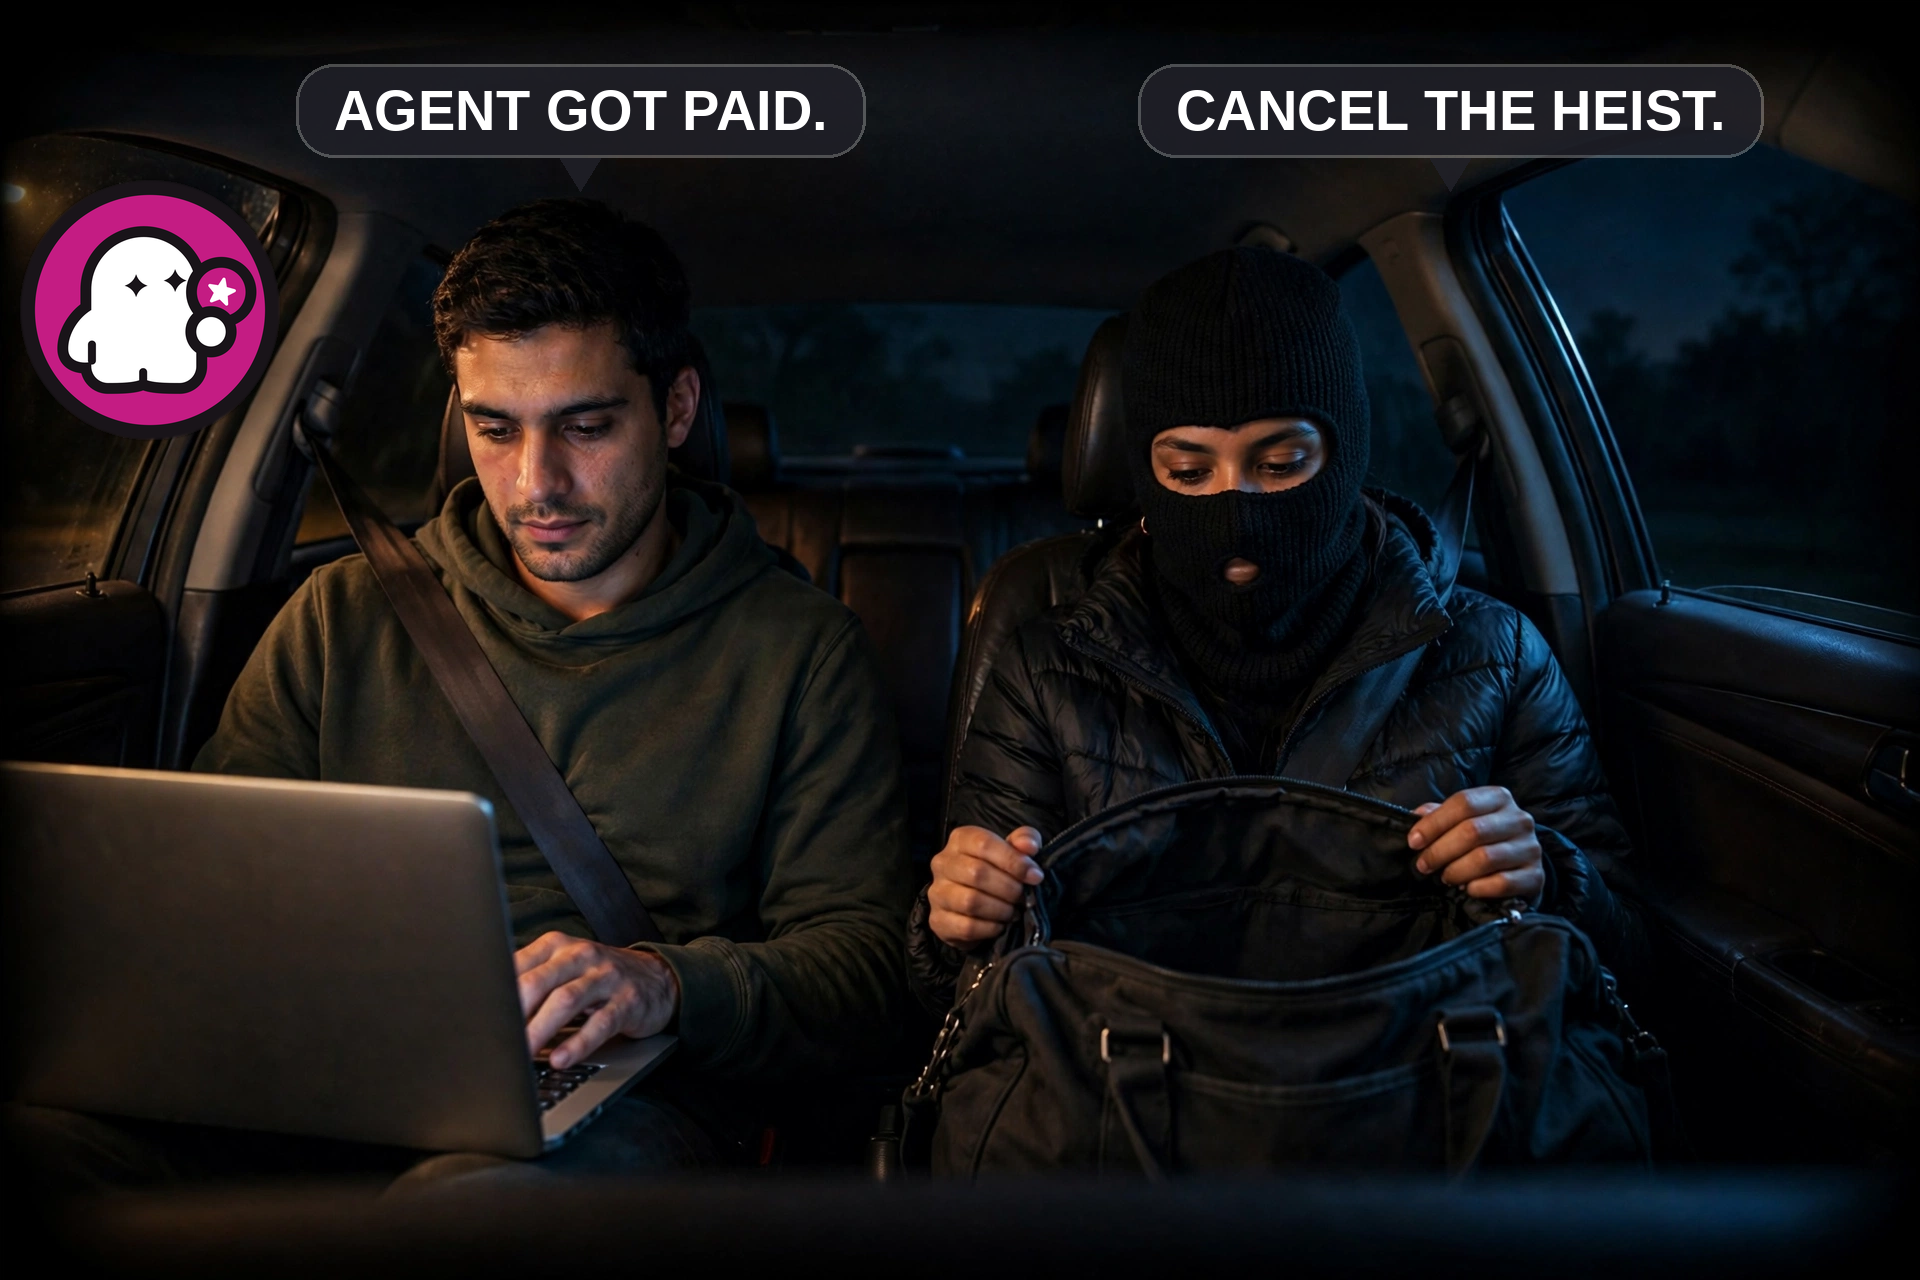
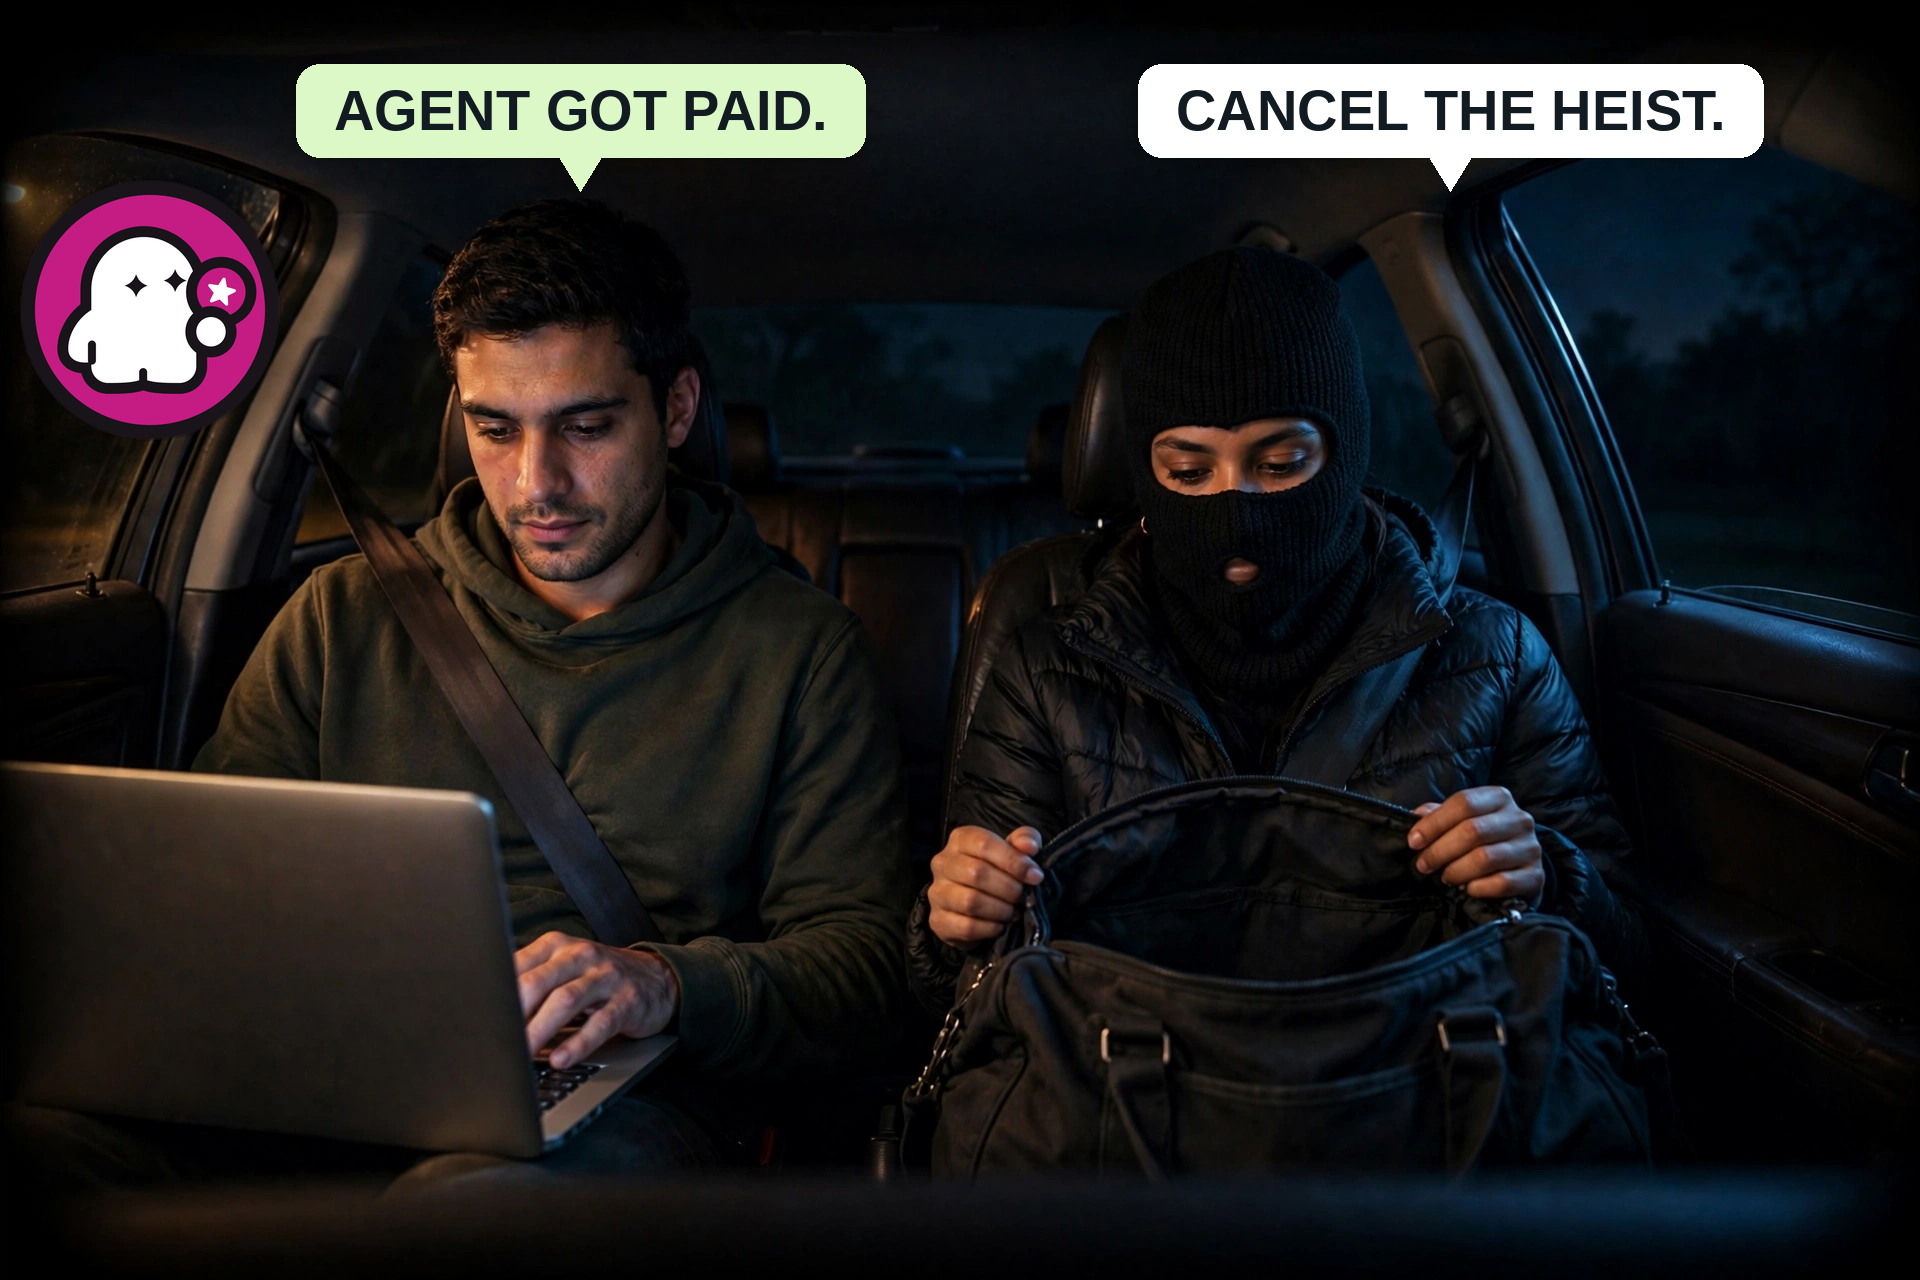
WhatsApp-style chat bubbles v4: WA green #dcf8c6 + white, dark text, XS font

Changed region(s): [[0.5938, 0.0312, 0.9375, 0.1562], [0.1562, 0.0312, 0.4688, 0.1562]]

diff --git a/composite_v4.py b/composite_v4.py
@@ -1,0 +1,100 @@
+#!/usr/bin/env python3
+"""Composite v4 for the main Bonnie & Clyde meme.
+
+Changes vs v3 (per Bayu, round 4):
+- ONLY the two caption bubbles restyled to look like WhatsApp chat
+  bubbles. Base image and ghost UNCHANGED (same photorealistic base,
+  same real press-kit mark-1024.png at (150, 310) d=280).
+- WhatsApp style: Jason (left) "AGENT GOT PAID." = outgoing bubble,
+  WhatsApp light green #dcf8c6. Lucia (right) "CANCEL THE HEIST." =
+  incoming bubble, white #ffffff. Dark text #111b21 on both, WA-style
+  rounded corners, small tail pointing down at the speaker, soft drop
+  shadow, no border. Font stays XS 56px.
+- Timestamp / double-check marks SKIPPED on purpose: at 480px they
+  would shrink to ~7px noise. The green+white colours alone read as
+  WhatsApp, and the bubbles stay clean and readable.
+"""
+from PIL import Image, ImageDraw, ImageFont, ImageFilter
+
+BASE = "/home/hatch/workspace/makefun/gta6-meme-x-01/assets"
+OUT = "/home/hatch/workspace/makefun/gta6-meme-x-01"
+GHOST = f"{BASE}/mark-1024.png"
+FONT = "/usr/share/fonts/truetype/liberation/LiberationSans-Bold.ttf"
+SRC = f"{BASE}/media-generation-media-generation-base-main-v2-0-50ce7a5f-063c-4db2-a3e6-960bc42f950c.png"
+
+FONT_SIZE = 56  # XS: smallest still clearly readable at 480px wide
+WA_GREEN = (220, 248, 198)      # #dcf8c6 outgoing
+WA_WHITE = (255, 255, 255)      # incoming
+WA_TEXT = (17, 27, 33)          # #111b21
+
+ghost_src = Image.open(GHOST).convert("RGBA")
+
+
+def paste_ghost(img, cx, cy, diameter):
+    g = ghost_src.resize((diameter, diameter), Image.LANCZOS)
+    r, gg, b, a = g.split()
+    a = a.filter(ImageFilter.GaussianBlur(1.2))
+    g = Image.merge("RGBA", (r, gg, b, a))
+    shadow = Image.new("RGBA", img.size, (0, 0, 0, 0))
+    sd = ImageDraw.Draw(shadow)
+    sd.ellipse([cx - diameter // 2 + 8, cy - diameter // 2 + 12,
+                cx + diameter // 2 + 8, cy + diameter // 2 + 12],
+               fill=(0, 0, 0, 90))
+    shadow = shadow.filter(ImageFilter.GaussianBlur(16))
+    img.alpha_composite(shadow)
+    img.alpha_composite(g, (cx - diameter // 2, cy - diameter // 2))
+
+
+def draw_bubble(img, text, tail_x, top_y, font_size, fill):
+    """WhatsApp bubble: opaque light fill, WA radius, small tail down
+    at tail_x, soft drop shadow, dark text. Returns the bubble box."""
+    f = ImageFont.truetype(FONT, font_size)
+    tw = int(f.getlength(text))
+    th = f.getbbox(text)[3] - f.getbbox(text)[1]
+    pad_x, pad_y = 38, 26
+    bw, bh = tw + pad_x * 2, th + pad_y * 2
+    # center bubble horizontally on tail_x, clamped inside canvas
+    x0 = max(16, min(tail_x - bw // 2, img.width - bw - 16))
+    y0, y1 = top_y, top_y + bh
+    x1 = x0 + bw
+    radius = 24
+    # soft drop shadow (bubble + tail silhouette, blurred)
+    sh = Image.new("RGBA", img.size, (0, 0, 0, 0))
+    ds = ImageDraw.Draw(sh)
+    ds.polygon([(tail_x - 26, y1 - 8), (tail_x + 26, y1 - 8),
+                (tail_x, y1 + 34)], fill=(0, 0, 0, 90))
+    ds.rounded_rectangle([x0, y0, x1, y1], radius=radius,
+                         fill=(0, 0, 0, 90))
+    sh = sh.filter(ImageFilter.GaussianBlur(12))
+    img.alpha_composite(sh)
+    # bubble body + tail (same fill so the tail blends in)
+    layer = Image.new("RGBA", img.size, (0, 0, 0, 0))
+    d = ImageDraw.Draw(layer)
+    d.polygon([(tail_x - 26, y1 - 8), (tail_x + 26, y1 - 8),
+               (tail_x, y1 + 34)], fill=fill + (255,))
+    d.rounded_rectangle([x0, y0, x1, y1], radius=radius,
+                        fill=fill + (255,))
+    img.alpha_composite(layer)
+    # dark text, no stroke
+    d2 = ImageDraw.Draw(img)
+    tx = x0 + pad_x
+    ty = y0 + pad_y - f.getbbox(text)[1]
+    d2.text((tx, ty), text, font=f, fill=WA_TEXT)
+    print(f"bubble '{text}' font={font_size}px fill=#{fill[0]:02x}"
+          f"{fill[1]:02x}{fill[2]:02x} box=({x0},{y0})-({x1},{y1}) "
+          f"tail_x={tail_x}")
+    return (x0, y0, x1, y1)
+
+
+img = Image.open(SRC).convert("RGBA")
+print("base size:", img.size)
+paste_ghost(img, 150, 310, 280)
+# Jason (left, face centre ~x580) speaks first; Lucia (right, ~x1450) answers.
+draw_bubble(img, "AGENT GOT PAID.", tail_x=580, top_y=64,
+            font_size=FONT_SIZE, fill=WA_GREEN)
+draw_bubble(img, "CANCEL THE HEIST.", tail_x=1450, top_y=64,
+            font_size=FONT_SIZE, fill=WA_WHITE)
+img.convert("RGB").save(f"{OUT}/meme.png", "PNG")
+img.convert("RGB").resize((480, 320), Image.LANCZOS).save(
+    f"{OUT}/meme-480.png", "PNG")
+print("wrote", f"{OUT}/meme.png", "and meme-480.png")
